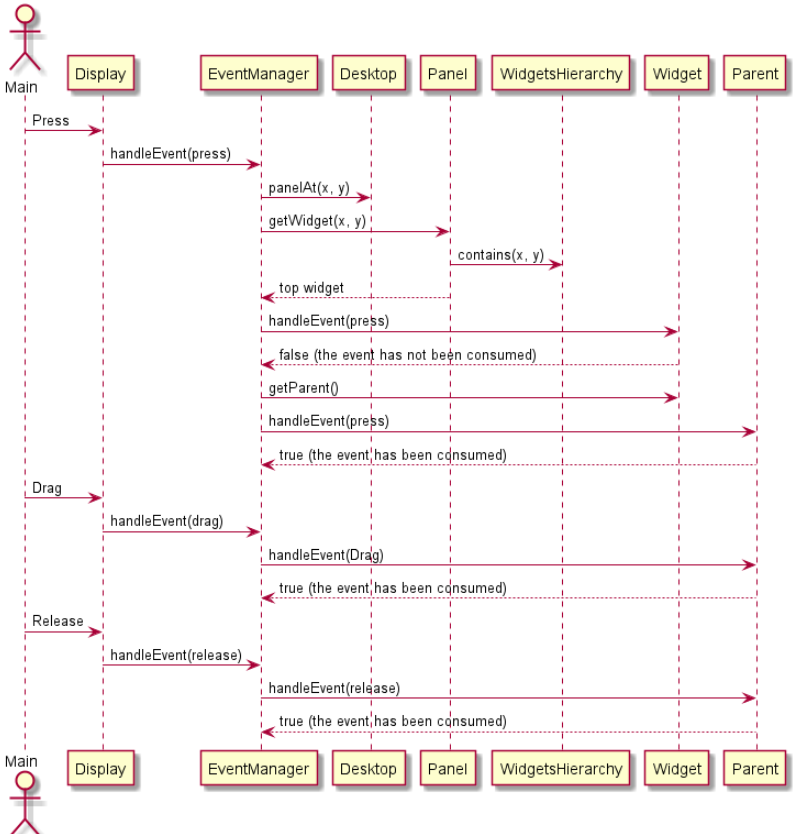
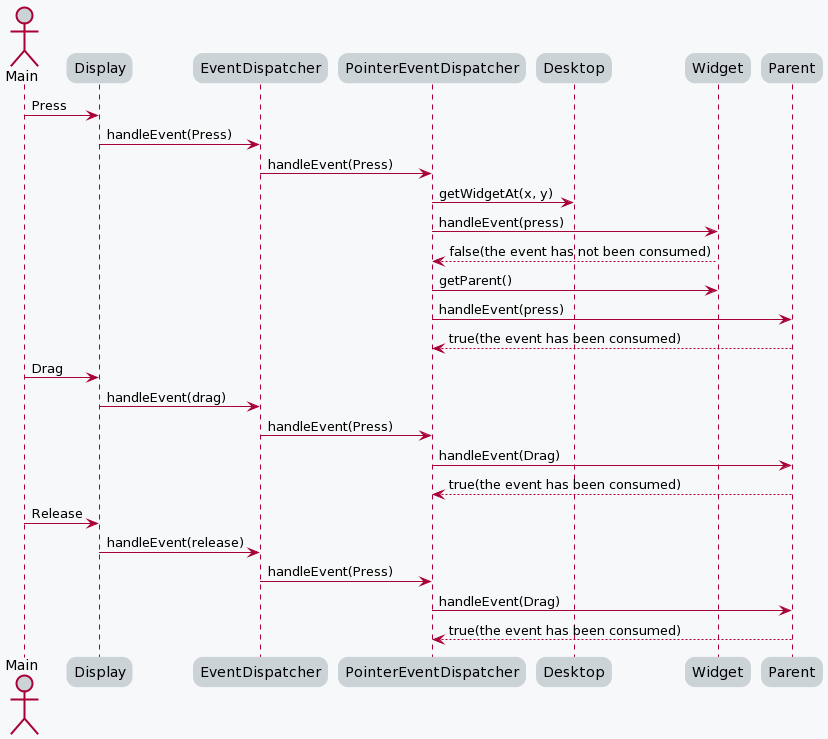
changes images used and updates the text to Widget 4.x

diff --git a/ApplicationDeveloperGuide/eventPropagation.rst b/ApplicationDeveloperGuide/eventPropagation.rst
@@ -11,14 +11,14 @@ Pointer events are grouped in sessions. A session starts when the pointer is pre
 
 While no renderable consumes the events, they are sent to the renderable that is under the pointer, then sent to all its parent hierarchy. Once a renderable has consumed an event, every other event in the session is sent to it.
 
-The renderable under the pointer is requested using Desktop.getWidgetAt(). By default every widget is considered as a rectangular area. This area can be modified by subclassing Widget.contains().
+The renderable under the pointer is requested using getDesktop().getWidgetAt(). By default every widget is considered as a rectangular area. This area can be modified by subclassing Widget.contains().
 
 |image0|
 
 Other Events
 ------------
 
-For other events, the events are sent to the focus owner of the active Displayable, then sent to all its parent hierarchy while the event is not consumed.
+For other events, the events are sent to the focus owner of the active Displayable.
 
 |image1|
 
